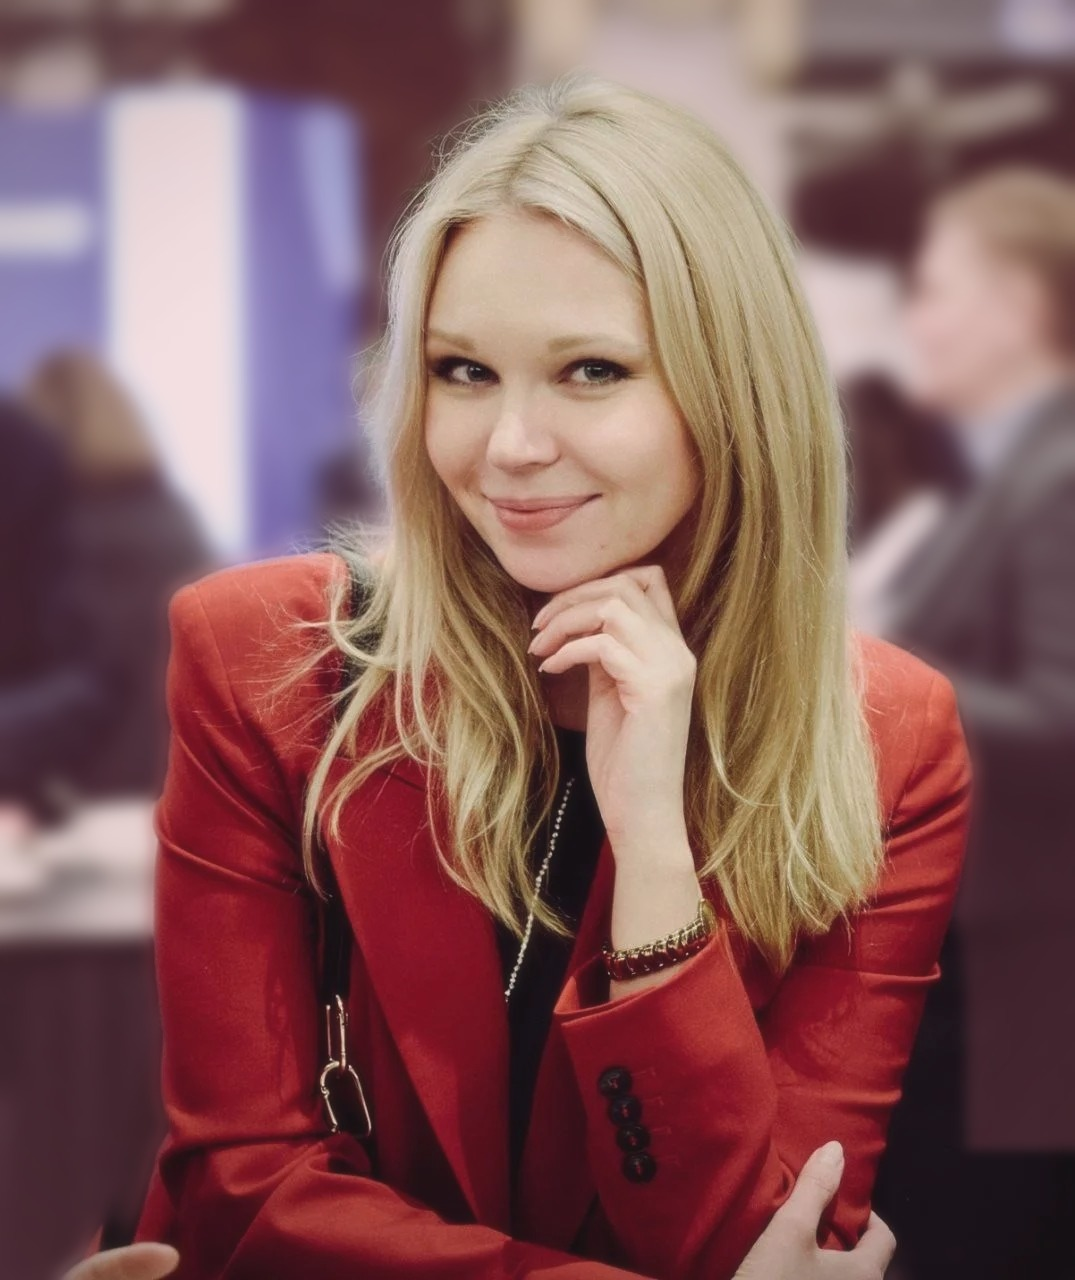
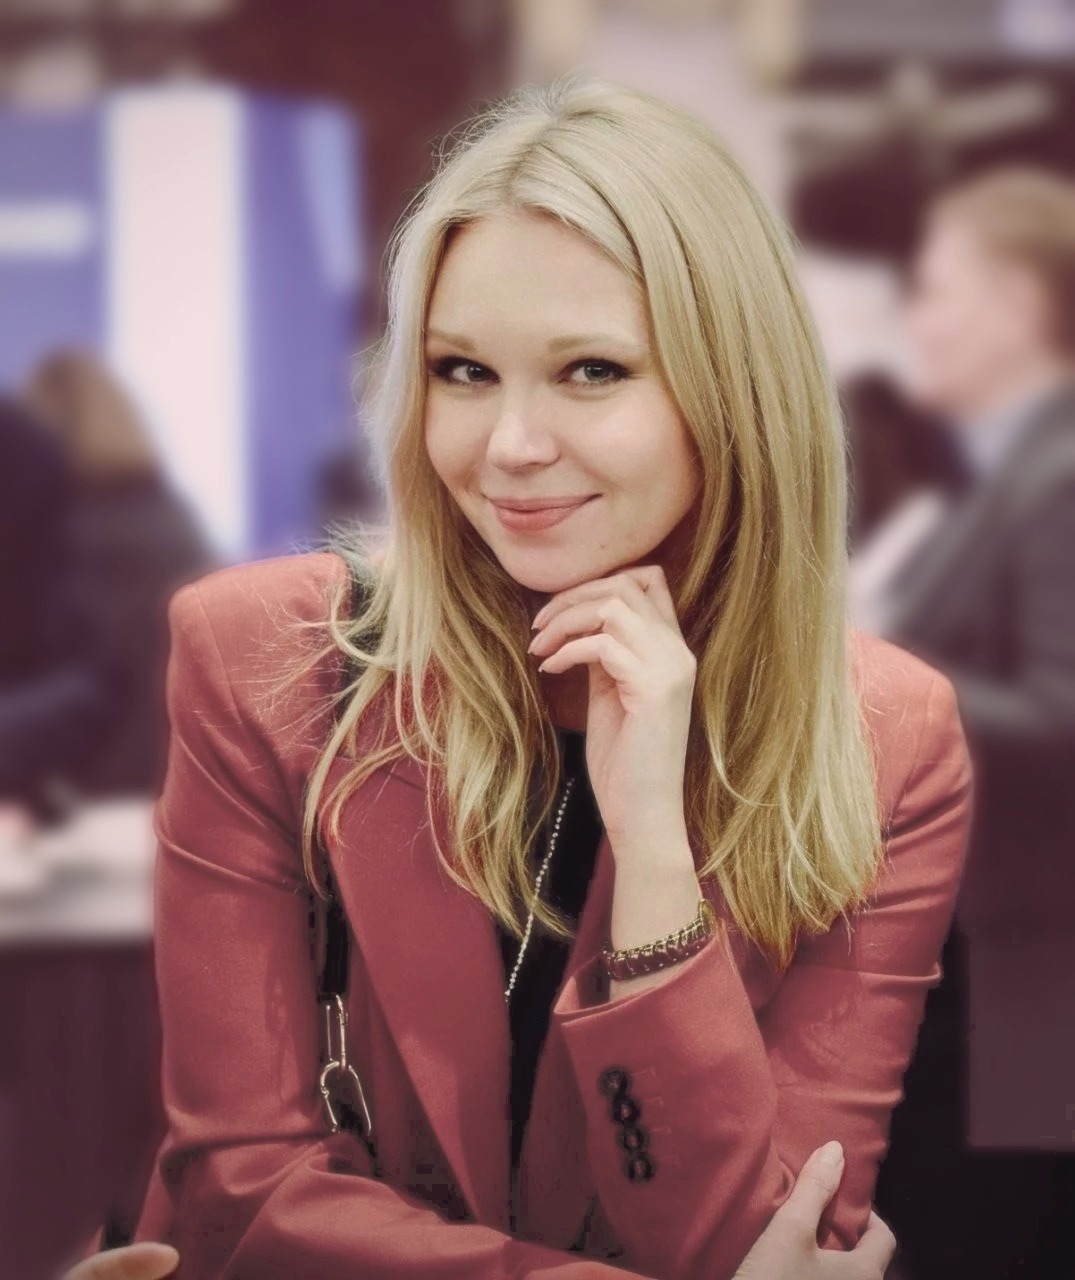
Portrait: jacket recolored to muted dusty rose to match the palette
Claude-Session: https://claude.ai/code/session_017zF6NKWSFQoNCEWFPX3gsG

Changed region(s): [[0.1228, 0.4375, 0.9209, 1.0]]

diff --git a/CLAUDE.md b/CLAUDE.md
@@ -10,7 +10,7 @@
 - `annanikulina/index.html`, `en/index.html` — СГЕНЕРИРОВАННЫЕ файлы. Руками не править, пересобирать: `python3 tools/build.py .`
 - `assets/site.css` — дизайн. Палитра тон-в-тон с фото (оттенок 358°): фон первого экрана почти совпадает с фоном фото (#efcacb → #ebc4c5 → #d8adb2), пользователь просит держать их близкими, фон фото #ecc5c6, светлые блоки #fbf7f7 и #f6eeef, бордо #5a1828, тёмное вино #2c0b14, крем #fbf6f3. Шрифт Inter Tight (лежит в `assets/fonts/`). Без арок и антиквы: пользователю они не нравятся.
 - `assets/site.js` — параллакс (`data-speed` по вертикали, `data-x` по горизонтали, `data-fade`), сияние кнопок за курсором и звёздочки при наведении и клике (класс `glow`, слой `.sparkle-layer`); фоновые надписи мягкие (полупрозрачная заливка) и целиком в экране, появление блоков, меню, видео-плеер.
-- Портрет на сайте: `assets/img/anna-portrait-event.jpg` (1075x1280): по просьбе пользователя слегка размыт фон и мягкая розово-винная цветокоррекция, лицо естественное. Оригинал: `anna-portrait-event-original.jpg`. Прежний портрет на розовом фоне: `anna-portrait.jpg` (его не редактировать). Пользователь не любит «ИИ-вид»: обработка должна быть минимальной и естественной.
+- Портрет на сайте: `assets/img/anna-portrait-event.jpg` (1075x1280): по просьбе пользователя слегка размыт фон, мягкая розово-винная цветокоррекция, пиджак перекрашен из красного в пыльно-розовый (оттенок без сдвига, насыщенность ×0.64), лицо естественное. Оригинал: `anna-portrait-event-original.jpg`. Прежний портрет на розовом фоне: `anna-portrait.jpg` (его не редактировать). Пользователь не любит «ИИ-вид»: обработка должна быть минимальной и естественной.
 - `assets/img/og-cover.jpg` — превью для соцсетей 1200x630, `favicon.svg`.
 - Видео: `tools/fetch_videos.py` при каждой сборке на GitHub (и ежедневно) забирает списки роликов в `data/videos.json`: RU-страница показывает RuTube (YouTube в РФ работает с перебоями), EN-страница показывает YouTube. На сайте только полные выпуски (без тизеров и Shorts), ролик открывается во всплывающем плеере. С этого сервера YouTube и RuTube недоступны, список смотреть в логах GitHub Actions.
 - `index.html` в корне — редирект на `annanikulina/`.
